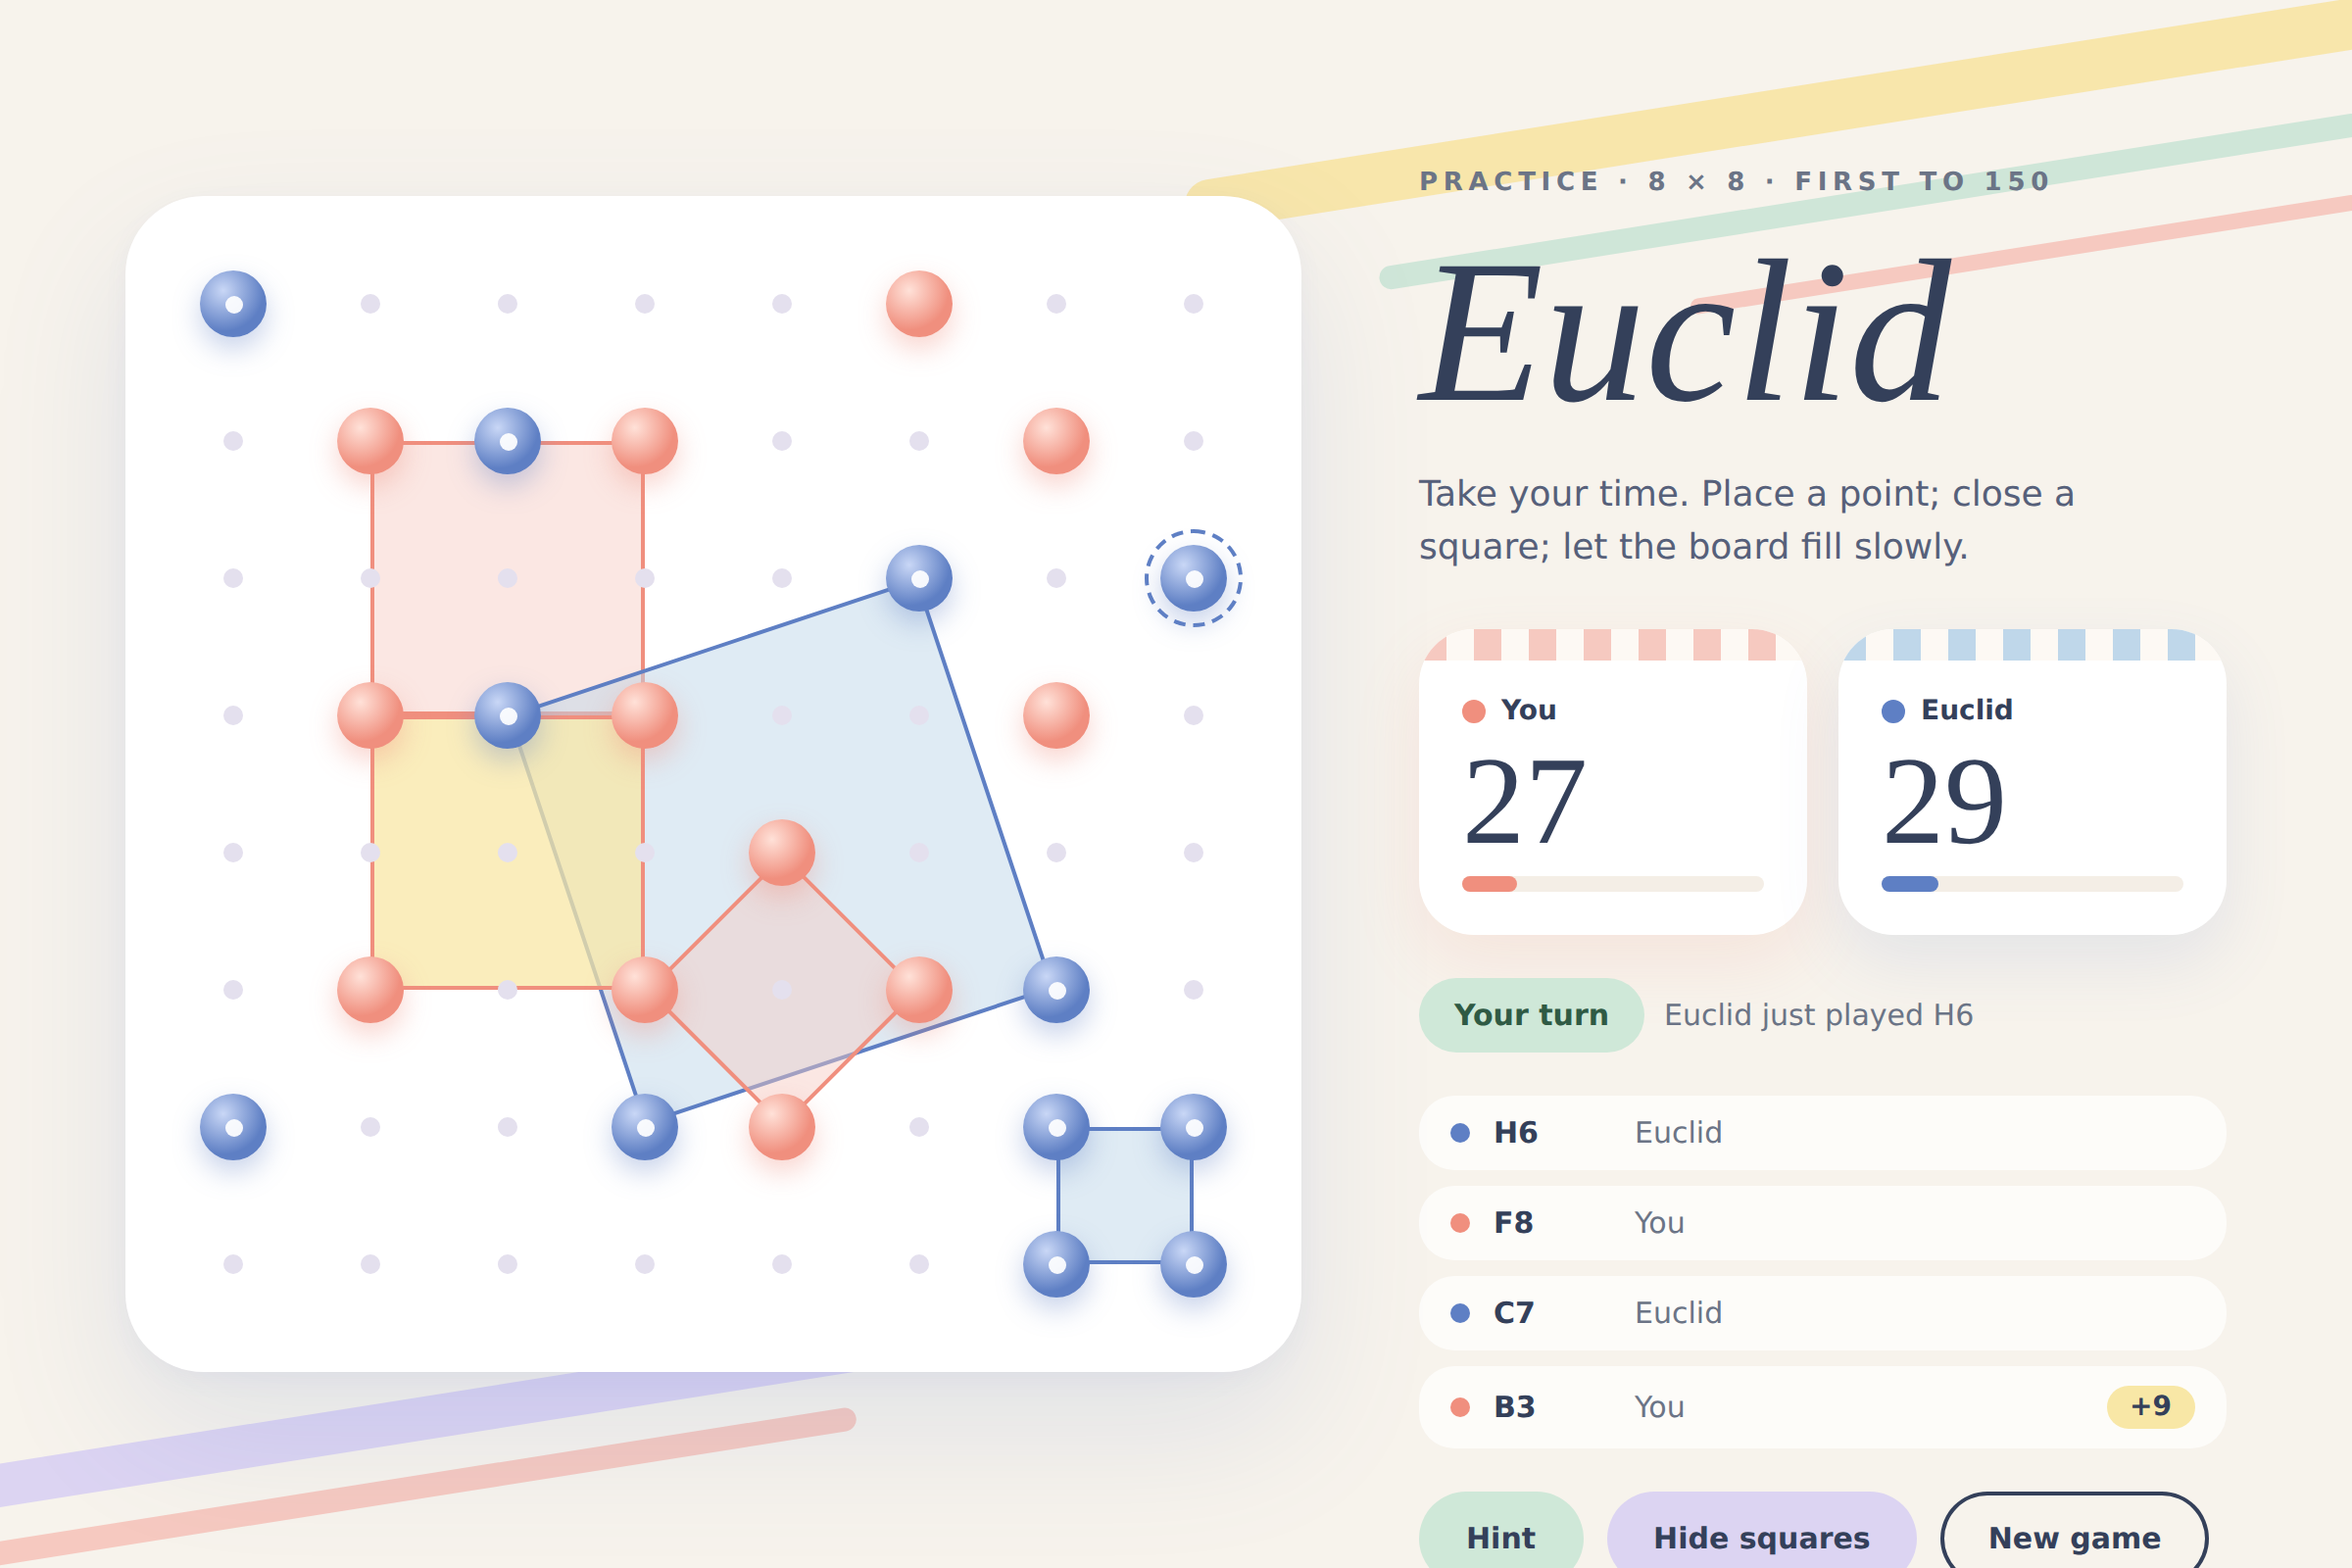
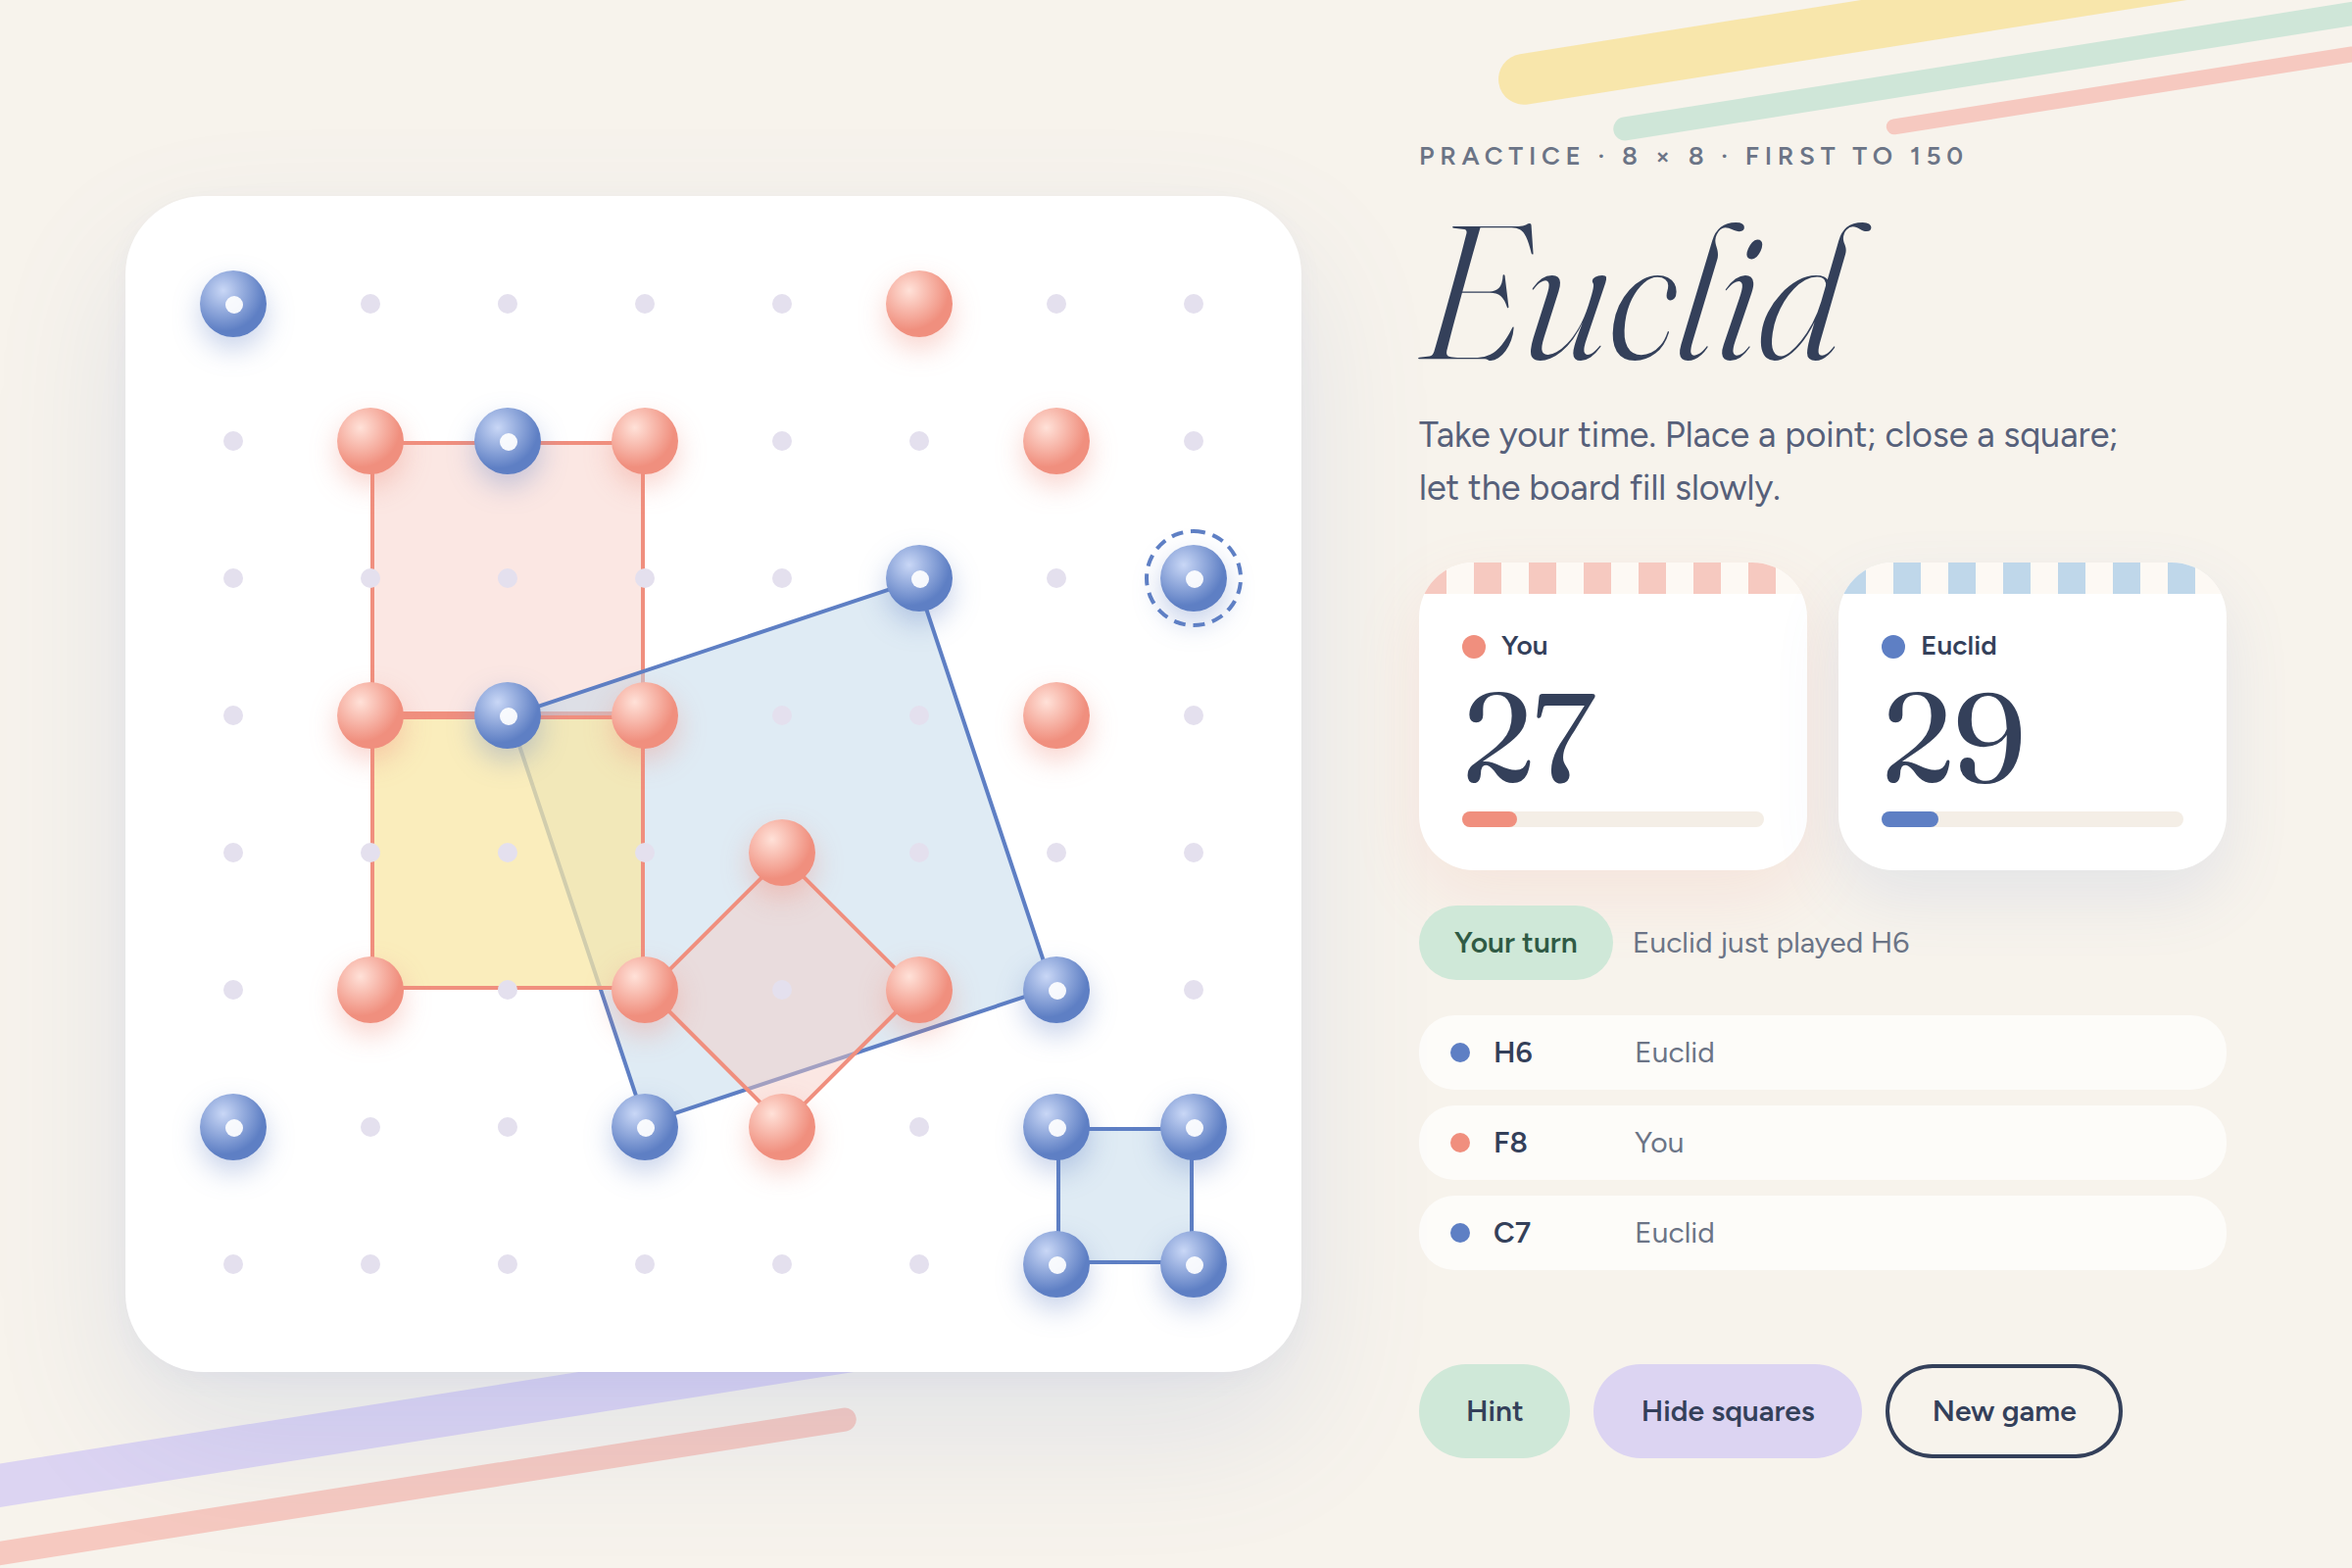
Refine the Breeze mockup
Keep the drifting ribbons clear of the title, tighten the side column so
the buttons sit inside the frame, and show three recent moves.

diff --git a/designs/source/01-breeze.dc.html b/designs/source/01-breeze.dc.html
@@ -20,9 +20,9 @@ a{color:#5E7FC4}a:hover{color:#3E5C9E}
 </helmet>
 <div style="position: relative; width: 1200px; height: 800px; box-sizing: border-box; padding: 56px 64px; background: #F7F3EC; display: flex; gap: 60px; overflow: hidden">
   <!-- drifting ribbons -->
-  <div style="position: absolute; left: 600px; top: 34px; width: 760px; height: 26px; border-radius: 999px; background: #F8E3A0; transform: rotate(-9deg); opacity: .85"></div>
-  <div style="position: absolute; left: 700px; top: 88px; width: 620px; height: 12px; border-radius: 999px; background: #CFE6D8; transform: rotate(-9deg)"></div>
-  <div style="position: absolute; left: 860px; top: 120px; width: 420px; height: 8px; border-radius: 999px; background: #F6C9C0; transform: rotate(-9deg)"></div>
+  <div style="position: absolute; left: 760px; top: -30px; width: 760px; height: 26px; border-radius: 999px; background: #F8E3A0; transform: rotate(-9deg); opacity: .85"></div>
+  <div style="position: absolute; left: 820px; top: 20px; width: 520px; height: 12px; border-radius: 999px; background: #CFE6D8; transform: rotate(-9deg)"></div>
+  <div style="position: absolute; left: 960px; top: 30px; width: 400px; height: 8px; border-radius: 999px; background: #F6C9C0; transform: rotate(-9deg)"></div>
   <div style="position: absolute; left: -140px; top: 712px; width: 720px; height: 22px; border-radius: 999px; background: #DCD4F2; transform: rotate(-9deg)"></div>
   <div style="position: absolute; left: -80px; top: 758px; width: 520px; height: 12px; border-radius: 999px; background: #F6C9C0; transform: rotate(-9deg)"></div>
 
@@ -55,9 +55,9 @@ a{color:#5E7FC4}a:hover{color:#3E5C9E}
   </div>
 
   <!-- side -->
-  <div style="position: relative; flex-grow: 1; display: flex; flex-direction: column; gap: 22px; padding-top: 30px">
+  <div style="position: relative; flex-grow: 1; display: flex; flex-direction: column; gap: 18px; padding-top: 16px">
     <div style="font-size: 13px; font-weight: 600; letter-spacing: .22em; text-transform: uppercase; color: #6B7486">Practice · 8 × 8 · first to 150</div>
-    <div style="font-family: 'Fraunces', Georgia, serif; font-style: italic; font-weight: 300; font-size: 104px; line-height: .9; color: #34405A">Euclid</div>
+    <div style="font-family: 'Fraunces', Georgia, serif; font-style: italic; font-weight: 300; font-size: 96px; line-height: .9; color: #34405A">Euclid</div>
     <div style="font-size: 18px; line-height: 1.5; color: #56607A; max-width: 380px">Take your time. Place a point; close a square; let the board fill slowly.</div>
 
     <div style="display: grid; grid-template-columns: repeat(2, minmax(0, 1fr)); gap: 16px; margin-top: 6px">
@@ -136,7 +136,7 @@ class Component extends DCLogic {
   renderVals() {
     var L = euLayout(70, 55, 1);
     L.squares.forEach(function (q) { q.fillA = q.fresh ? 'rgba(248,231,166,.75)' : 'rgba(246,201,192,.45)'; });
-    var recent = L.log.slice(0, 4).map(function (r) { return { cell: r.cell, who: r.a ? 'You' : 'Euclid', dot: r.a ? '#F08F7E' : '#5E7FC4', pts: !!r.pts, plus: r.plus }; });
+    var recent = L.log.slice(0, 3).map(function (r) { return { cell: r.cell, who: r.a ? 'You' : 'Euclid', dot: r.a ? '#F08F7E' : '#5E7FC4', pts: !!r.pts, plus: r.plus }; });
     return { cells: L.cells, squares: L.squares, recent: recent };
   }
 }
